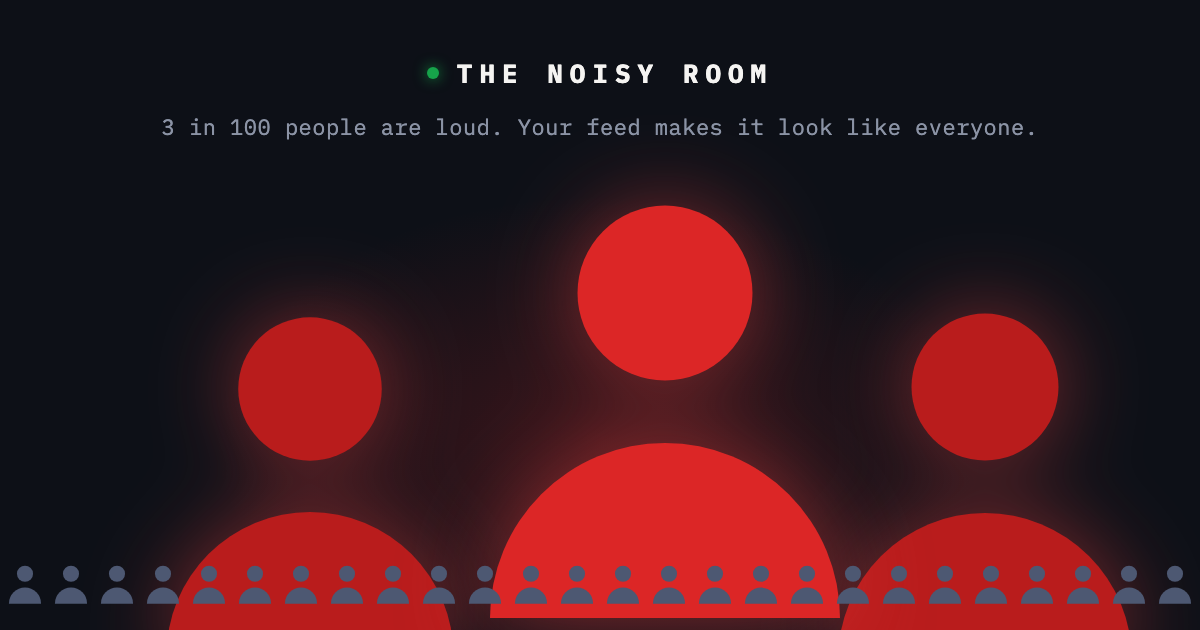
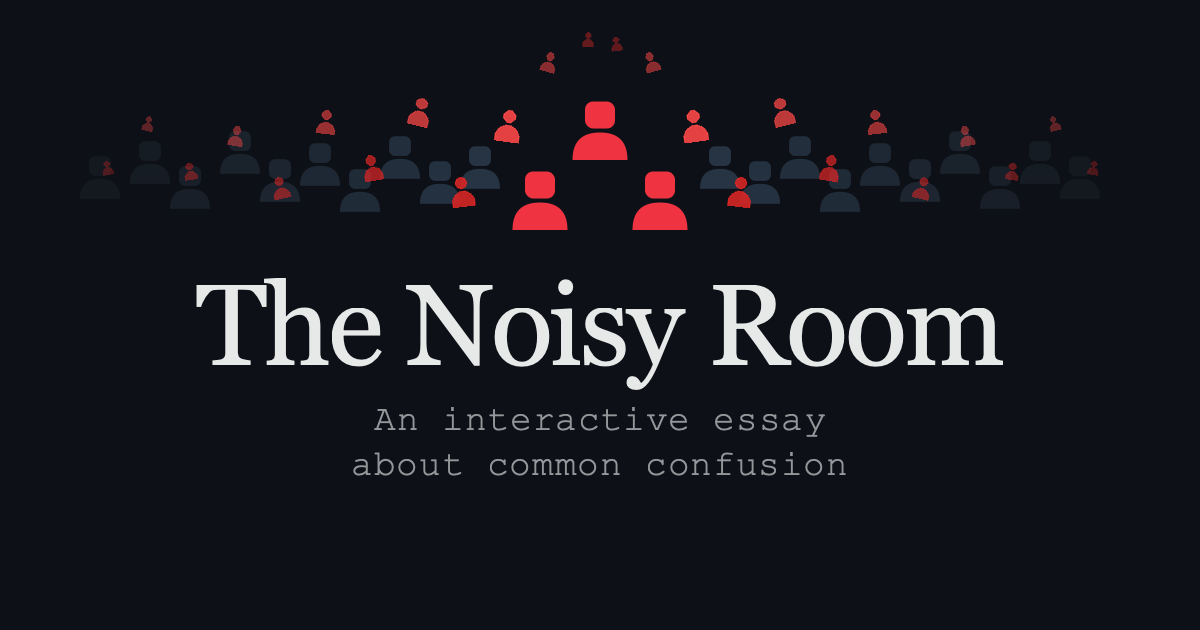
OG: rollback to original card + red cascade fanning from the center trio. Copy: opening line now leads with the italicized question

diff --git a/index.html b/index.html
@@ -11,7 +11,7 @@
 <meta name="robots" content="index, follow">
 <meta property="og:title" content="The Noisy Room">
 <meta property="og:description" content="Only 3% of social media users post toxic content — but Americans estimate 43%. An interactive essay about what algorithms hide.">
-<meta property="og:image" content="https://thenoisyroom.com/og-image.png?v=5">
+<meta property="og:image" content="https://thenoisyroom.com/og-image.png?v=6">
 <meta property="og:image:width" content="1200">
 <meta property="og:image:height" content="630">
 <meta property="og:url" content="https://thenoisyroom.com">
@@ -21,7 +21,7 @@
 <meta name="twitter:card" content="summary_large_image">
 <meta name="twitter:title" content="The Noisy Room">
 <meta name="twitter:description" content="Only 3% of social media users post toxic content — but Americans estimate 43%. An interactive essay.">
-<meta name="twitter:image" content="https://thenoisyroom.com/og-image.png?v=5">
+<meta name="twitter:image" content="https://thenoisyroom.com/og-image.png?v=6">
 <meta name="twitter:creator" content="@TobiasRose">
 <script type="application/ld+json">
 {"@context":"https://schema.org","@type":"Article","headline":"The Noisy Room","description":"How a tiny minority distorts what everyone else sees. An interactive essay about social media, misperception, and a proposal to fix it.","author":{"@type":"Person","name":"Tobias Rose-Stockwell","url":"https://tobias.cc"},"url":"https://thenoisyroom.com","image":"https://thenoisyroom.com/og-image.png","datePublished":"2026-02-18","dateModified":"2026-04-15","publisher":{"@type":"Organization","name":"The Noisy Room"}}
@@ -1315,7 +1315,7 @@ function feedDotBg() { return isDarkTheme() ? 'rgba(255,255,255,0.1)' : 'rgba(0,
   <!-- 1: THE GUESS -->
   <section class="section" id="s1" style="margin-top:25px">
 
-    <p class="drop-cap-block">It began with a study. In December of 2025, Stanford researchers <a href="https://doi.org/10.1093/pnasnexus/pgaf310" target="_blank">analyzed 2.2 billion social media posts</a> looking for a pattern. They wanted to know what percentage of users posted <em>severely</em> toxic content. Not rudeness, not sarcasm, but speech that was so hateful that 90% of the world would flag it as being problematic.<span class="cite">1</span></p>
+    <p class="drop-cap-block">It began with a simple question: <em>How bad is social media, really?</em> In December of 2025, Stanford researchers <a href="https://doi.org/10.1093/pnasnexus/pgaf310" target="_blank">analyzed 2.2 billion social media posts</a> looking for a pattern. They wanted to know what percentage of users posted <em>severely</em> toxic content. Not rudeness, not sarcasm, but speech that was so hateful that 90% of the world would flag it as being problematic.<span class="cite">1</span></p>
     <p>With this data in hand, they then asked thousands of people to answer a simple question:</p>
 
     <div class="guess-box">
